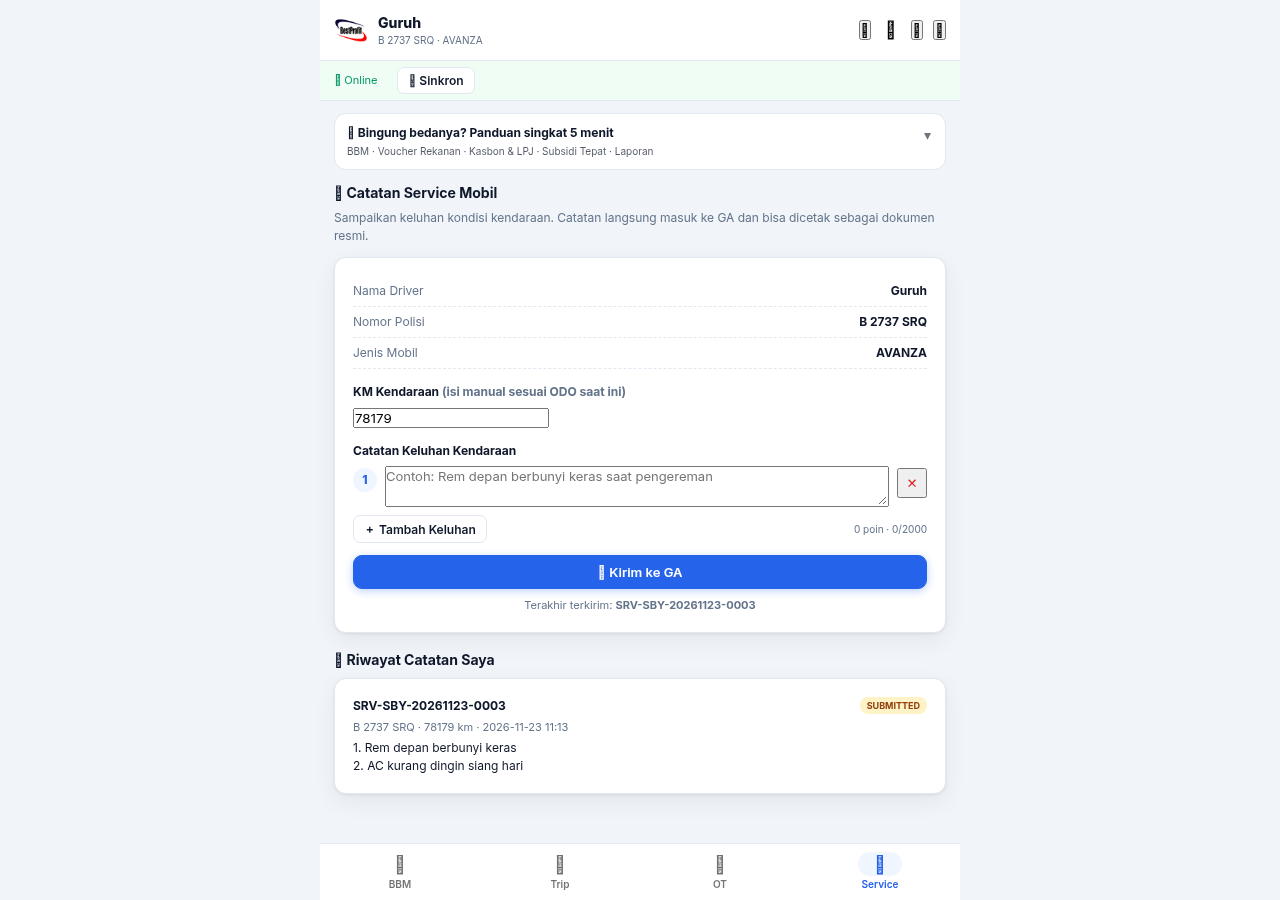
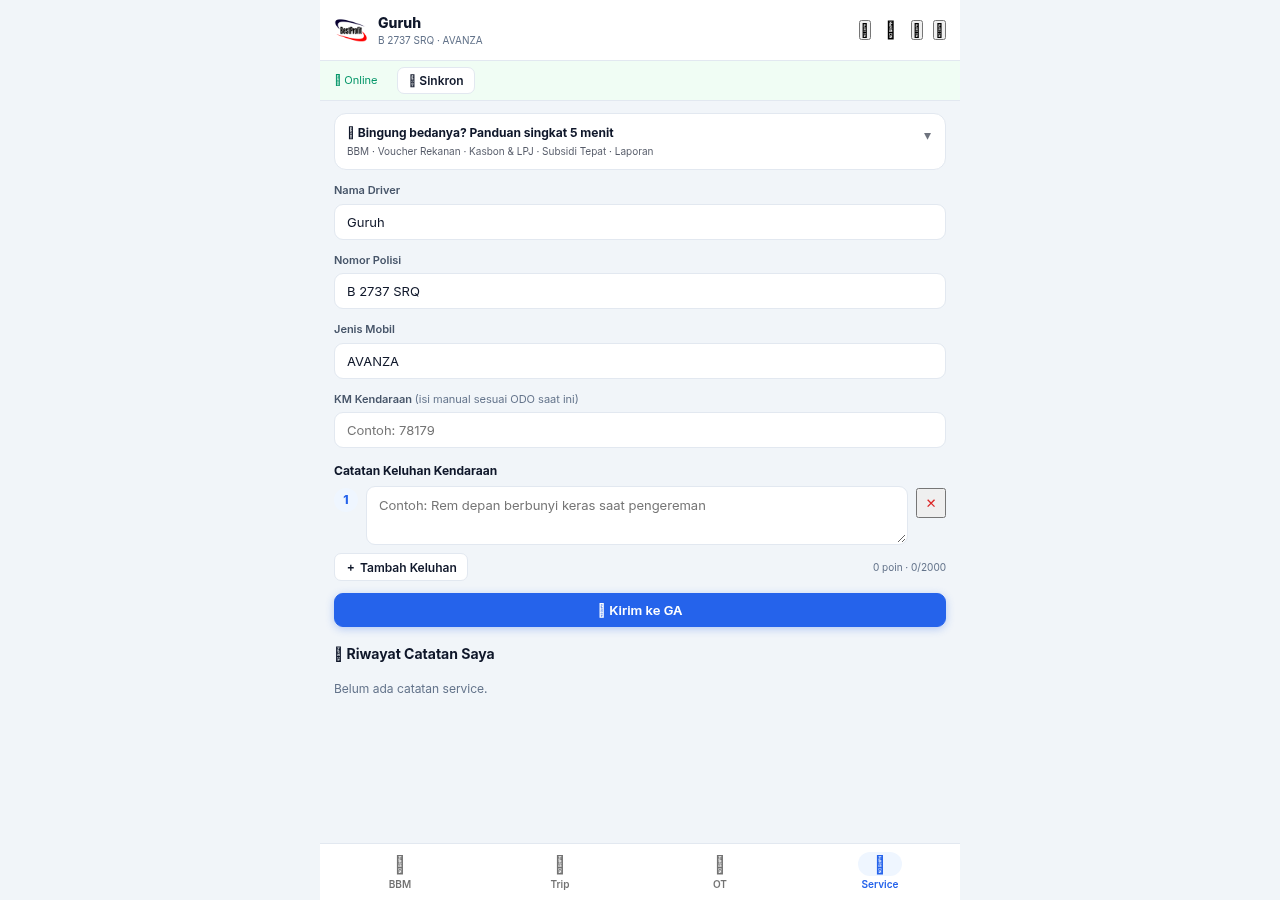
docs: finalisasi panduan v2.131.2 dengan screenshot terbaru

Changed region(s): [[0.25, 0.1867, 0.75, 0.8711], [0.6562, 0.3111, 0.7188, 0.4044], [0.6562, 0.7467, 0.7188, 0.8089]]

diff --git a/scripts/generate_user_guide_driver_ga.py b/scripts/generate_user_guide_driver_ga.py
@@ -19,7 +19,7 @@ sys.path.insert(0, os.path.join(os.path.dirname(__file__), '..'))
 
 from modules.pdf_generator import BPFBasePDF, INK, GRAY_LABEL, RULE
 
-VERSION = 'v2.131.1'
+VERSION = 'v2.131.2'
 TANGGAL = '23 November 2026'
 ROOT = os.path.dirname(os.path.dirname(os.path.abspath(__file__)))
 SHOT_GA = os.path.join(ROOT, 'docs', 'public', 'screenshots', 'ga-service-audit.png')

diff --git a/docs/internal/PROGRESS.md b/docs/internal/PROGRESS.md
@@ -2583,3 +2583,14 @@ tes & verifikasi; perubahan produksi butuh konfirmasi eksplisit.
 - GA (`ga_sby`) melihat laporan tersebut, PDF resmi berhasil diunduh
   (`%PDF`, 57 kB), review `REVIEWED` sukses.
 - Data uji dihapus; tabel `driver_service_reports` kembali kosong.
+
+### Finalisasi panduan v2.131.2 (23 Nov, 15:25 WIB)
+- Tab Service PWA driver sudah diseragamkan dengan BBM/Trip/OT (field polos,
+  tanpa kartu abu). Screenshot final diambil ulang.
+- PDF diregenerasi untuk v2.131.2: Driver (6 hlm), GA (6 hlm), Semua Pengguna
+  (22 hlm), Service Driver (5 hlm), Service GA (5 hlm). Semua disimpan di
+  `C:\Users\it.ef\Documents\`.
+- Panduan Semua Pengguna memuat 20 screenshot aksi kritis, termasuk modal
+  detail klaim GA dan detail air minum Finance (data uji sudah dihapus).
+- Verifikasi: backend 1486 passed, frontend 411 passed, stamp v2.131.2,
+  container sehat.
